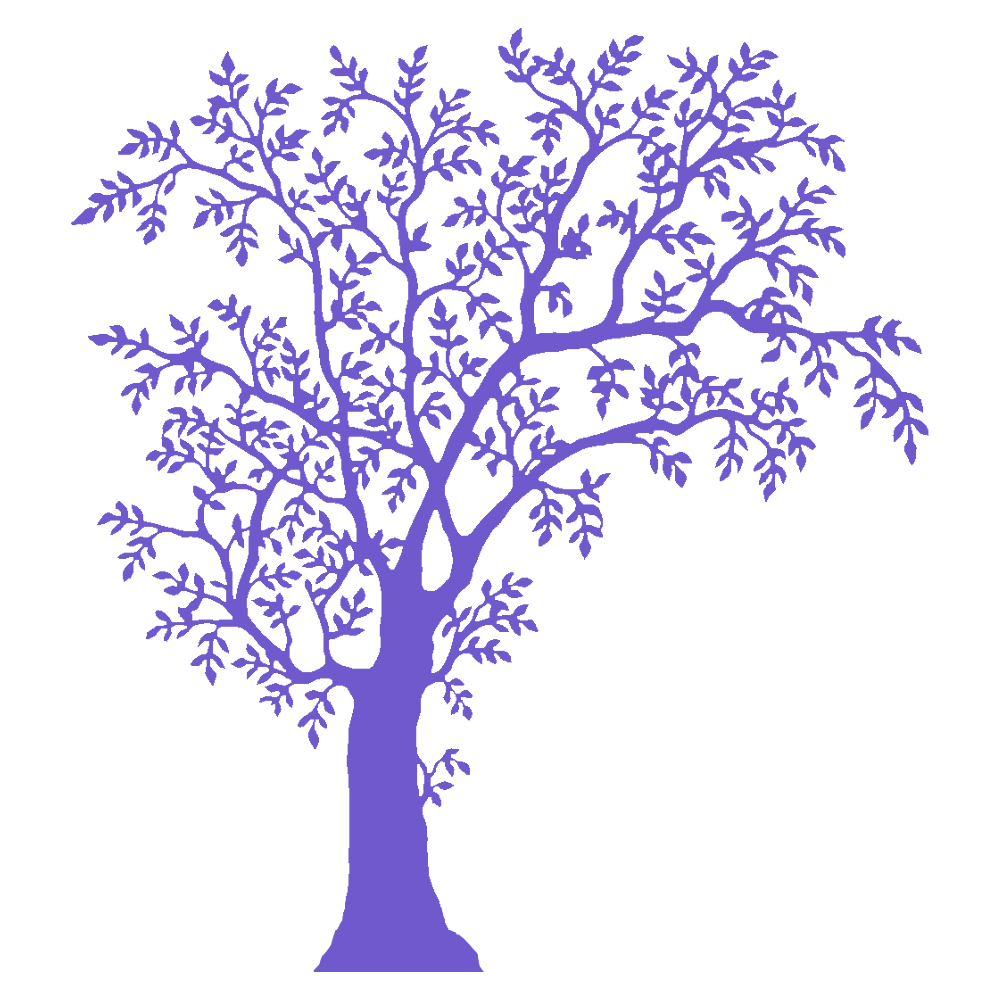
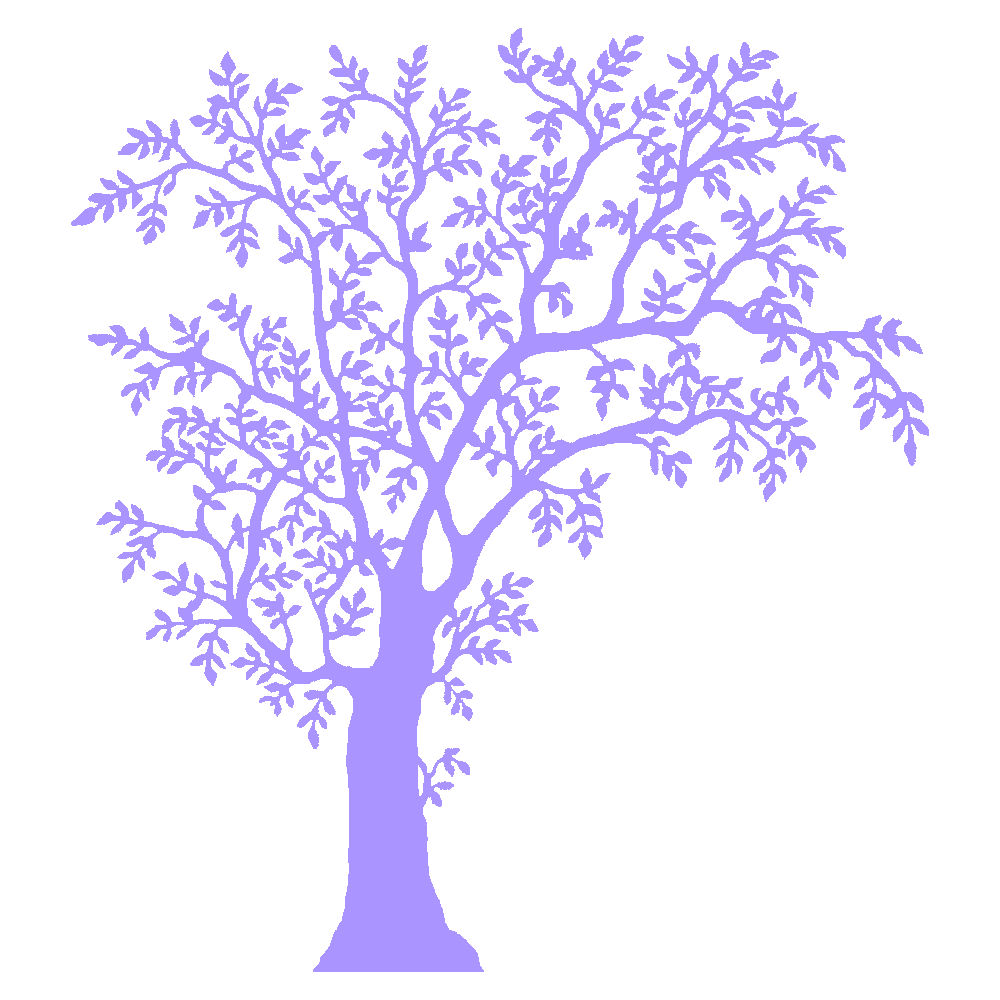
Fixed images, donation cards

Changed region(s): [[0.062, 0.031, 0.93, 0.992], [0.31, 0.031, 0.341, 0.062]]

diff --git a/index.html b/index.html
@@ -54,9 +54,9 @@
                     <h2>Garden</h2>
                     <p>$3/mo.</p>
                     <ul>
-                        <li>FIRST</li>
-                        <li>second</li>
-                        <li>third</li>
+                        <li>Weekly Newsletter</li>
+                        <li>Acces to slack group</li>
+                        <li>1 tree a month planted</li>
                     </ul>
                     <a href="#placeholder">Pick</a>
                 </div>
@@ -64,9 +64,9 @@
                     <h2>Forest</h2>
                     <p>$10/mo.</p>
                     <ul>
-                        <li>FIRST</li>
-                        <li>second</li>
-                        <li>third</li>
+                        <li>Weekly Newsletter</li>
+                        <li>Acces to secret content</li>
+                        <li>3 trees a month planted</li>
                     </ul>
                     <a href="#placeholder">Pick</a>
                 </div>
@@ -74,9 +74,9 @@
                 <div class="donateBox">
                     <h2>Jungle</h2>
                     <p>$50/mo.</p>
-                    <ul>                                    <li>FIRST</li>
-                        <li>second</li>
-                        <li>third</li>
+                    <ul>                                    <li>Meet up acces</li>
+                        <li>Be in our video</li>
+                        <li>15 trees a month planted</li>
                     </ul>
                     <a href="#placeholder">Pick</a>
                 </div>
@@ -113,5 +113,17 @@
                 <input type="submit" value="send">
             </form>
         </div>
+        
+        <footer>
+            <div class="treeIcon"><span>T</span>REE 2018.</div>
+            <h1>Thank you for your visit!</h1>
+            <a href="http://janoskocs.com">janoskocs.com</a>
+            <div class="footerNav">
+                <a href="#about">About</a>
+                <a href="#donate">Donate</a>
+                <a href="#contact">Contact</a>
+            </div>
+            <div class="spacer"></div>
+        </footer>
     </body>
 </html>

diff --git a/css/main.css b/css/main.css
@@ -7,7 +7,7 @@
 }
 
 body header .headerContainer {
-  background: linear-gradient(45deg, #5F46BE, #7058cd);
+  background: linear-gradient(45deg, #5F46BE, #aa94ff);
   height: 100vh;
 }
 
@@ -139,7 +139,7 @@ body #about .aboutContainer .aboutText p {
 }
 
 body #donate {
-  background: linear-gradient(#7058cd, #7058cd);
+  background: linear-gradient(#aa94ff, #5F46BE);
   margin-top: -4vh;
 }
 
@@ -223,7 +223,7 @@ body #donate .donateContainer .donateBox a {
 }
 
 body #donate .donateContainer .donateBox a:hover {
-  background: #7058cd;
+  background: #aa94ff;
   transition: .3s ease;
 }
 
@@ -373,10 +373,55 @@ body #contact form input[type="submit"], body #contact form textarea[type="submi
   background: #30B133;
   transition: .3s ease;
   color: #fff;
+  margin-bottom: 2rem;
 }
 
 body #contact form input[type="submit"]:hover, body #contact form textarea[type="submit"]:hover {
   transition: .3s ease;
-  background: #7058cd;
+  background: #aa94ff;
+}
+
+body footer {
+  background: #aa94ff;
+  display: flex;
+  flex-direction: column;
+  align-items: center;
+}
+
+body footer .treeIcon {
+  color: #fff;
+  font-family: "Open Sans", sans-serif;
+  font-weight: 300;
+  font-size: 1.5rem;
+  text-transform: uppercase;
+  margin-bottom: 2rem;
+  padding-top: 2rem;
+}
+
+body footer .treeIcon span {
+  color: #5F46BE;
+  background: #fff;
+}
+
+body footer h1 {
+  color: #fff;
+  font-family: "Open Sans", sans-serif;
+  font-weight: 300;
+  font-size: 1.5rem;
+  text-transform: capitalize;
+  margin-bottom: 2rem;
+}
+
+body footer a {
+  margin-bottom: 2rem;
+  color: #fff;
+  font-family: "Open Sans", sans-serif;
+  font-weight: 300;
+  font-size: 1rem;
+  text-transform: uppercase;
+}
+
+body footer .spacer {
+  height: 5vh;
 }
 /*# sourceMappingURL=main.css.map */

diff --git a/css/main.scss b/css/main.scss
@@ -119,7 +119,7 @@ body {
         }//.aboutContainer
     }//#about
     #donate {
-        background: linear-gradient($light-blue, $light-blue);
+        background: linear-gradient($light-blue, $main-blue);
         margin-top: -4vh;
         h1 {
             text-align: center;
@@ -274,14 +274,40 @@ body {
                 background: $main-green;
                 transition: .3s ease;
                 color: $accent-second;
+                margin-bottom: 2rem;
                 &:hover {
                     transition: .3s ease;
                     background: $light-blue;
                 }
             }
         }
-        
-    }
+    }//.aboutContainerSecond
+    footer {
+        background: $light-blue;
+        display: flex;
+        flex-direction: column;
+        align-items: center;
+        .treeIcon {
+            @include anchor(1.5rem, uppercase);
+            margin-bottom: 2rem;
+            padding-top: 2rem;
+            span{
+                color: $main-blue;
+                background: $accent-second;
+            }
+        }
+        h1 {
+            @include anchor(1.5rem, capitalize);
+            margin-bottom:2rem;
+        }
+        a {
+            margin-bottom: 2rem;
+            @include anchor(1rem, uppercase);
+        }
+        .spacer{
+            height: 5vh;
+        }
+    }//footer
 }//body
 
 //•

diff --git a/css/_vars.scss b/css/_vars.scss
@@ -1,5 +1,5 @@
 $main-blue: #5F46BE; //rgb(95, 70, 190) 
-$light-blue: #7058cd;
+$light-blue: #aa94ff; //#7058cd
 $main-green: #30B133; //rgb(48, 177, 51
 $accent: #c9c9c9;
 $accent-second: #fff;
